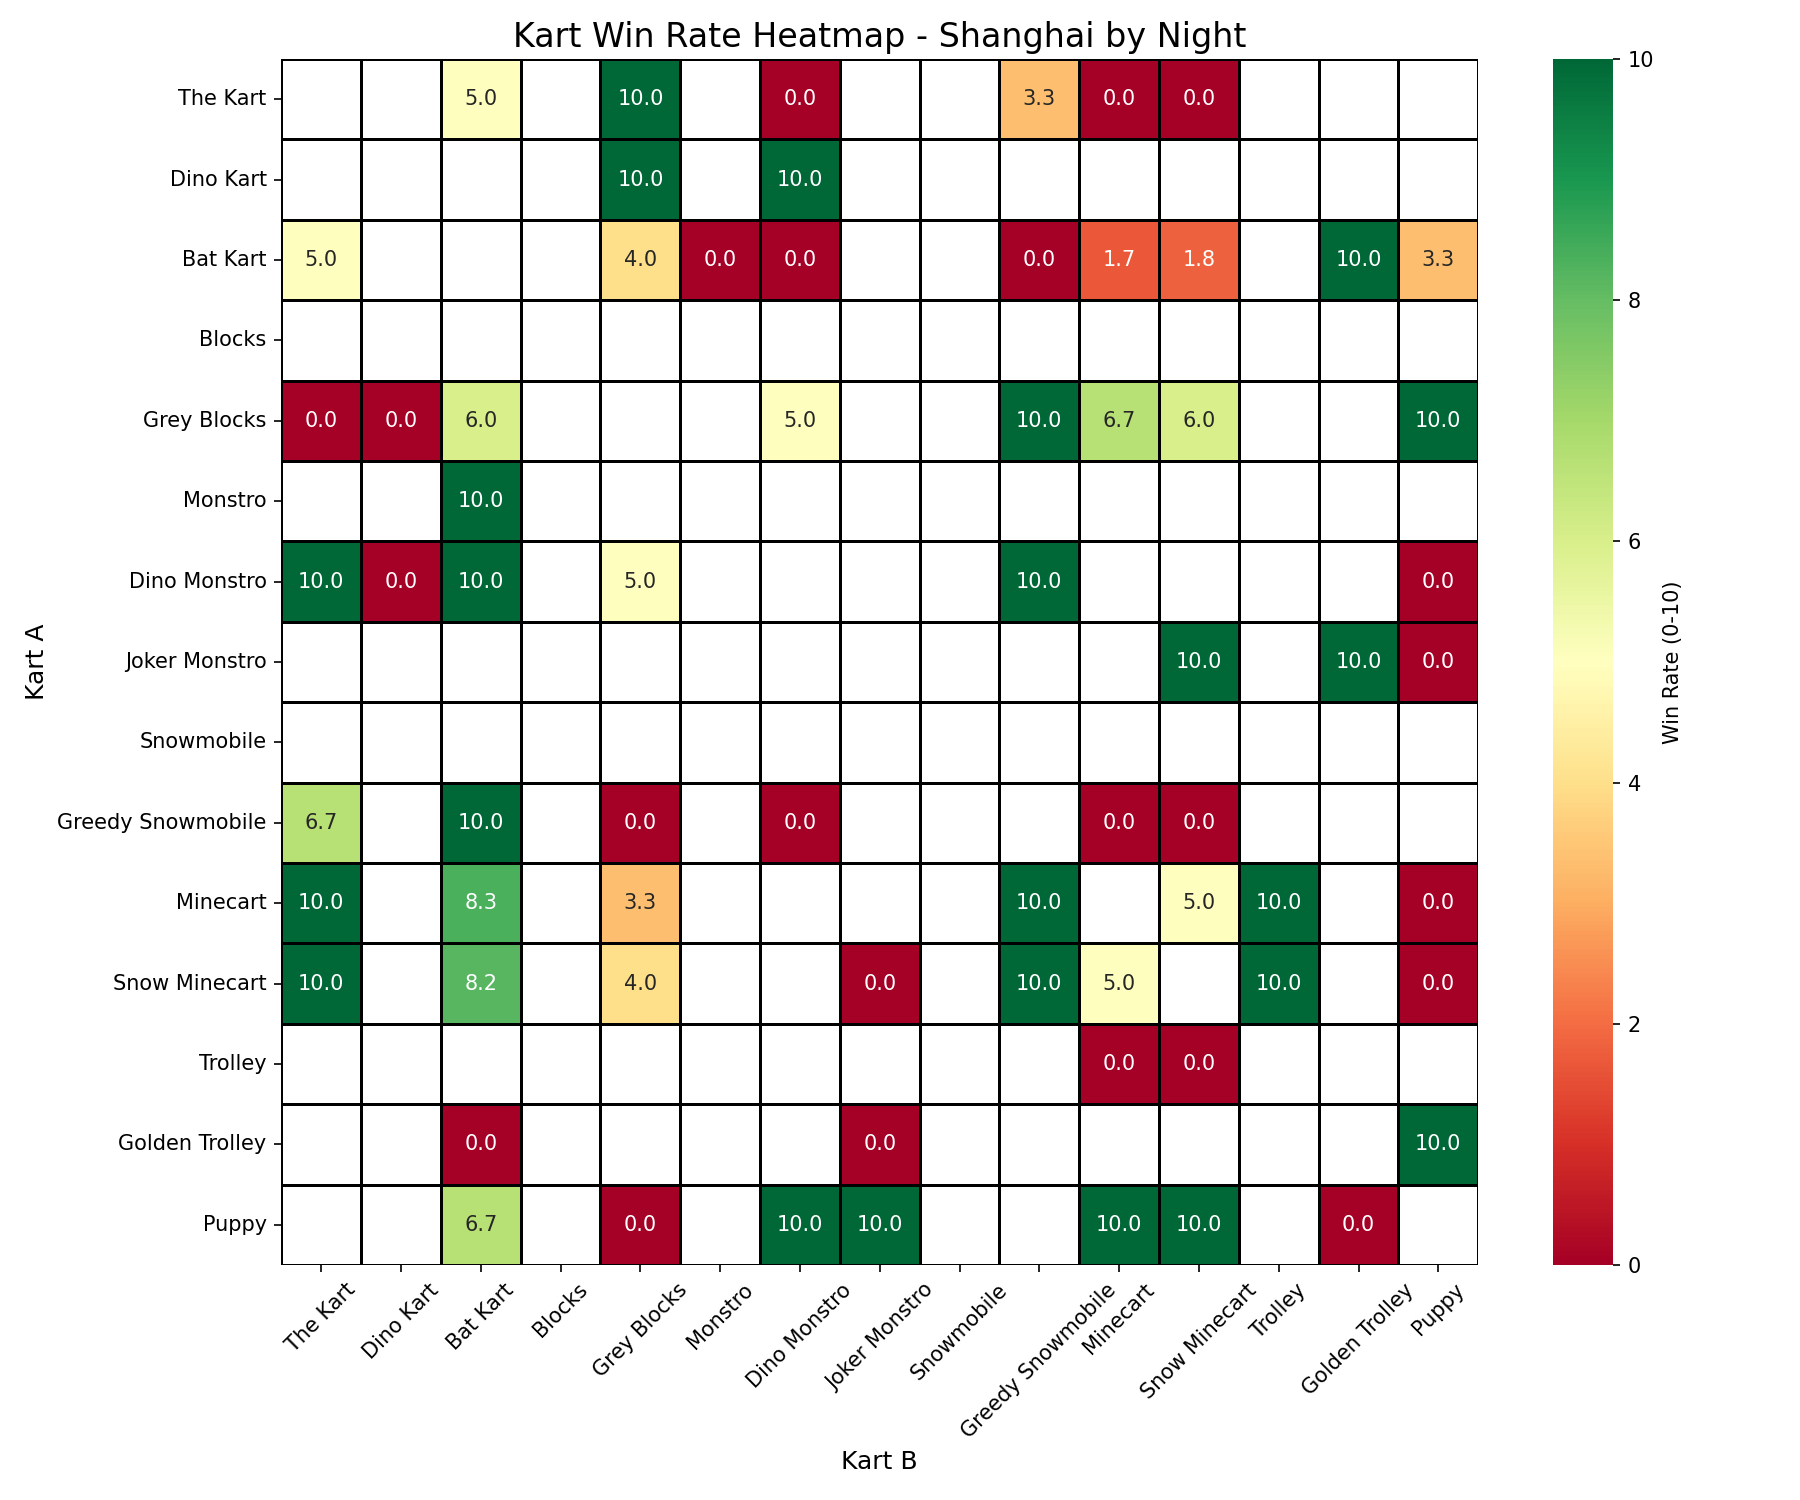
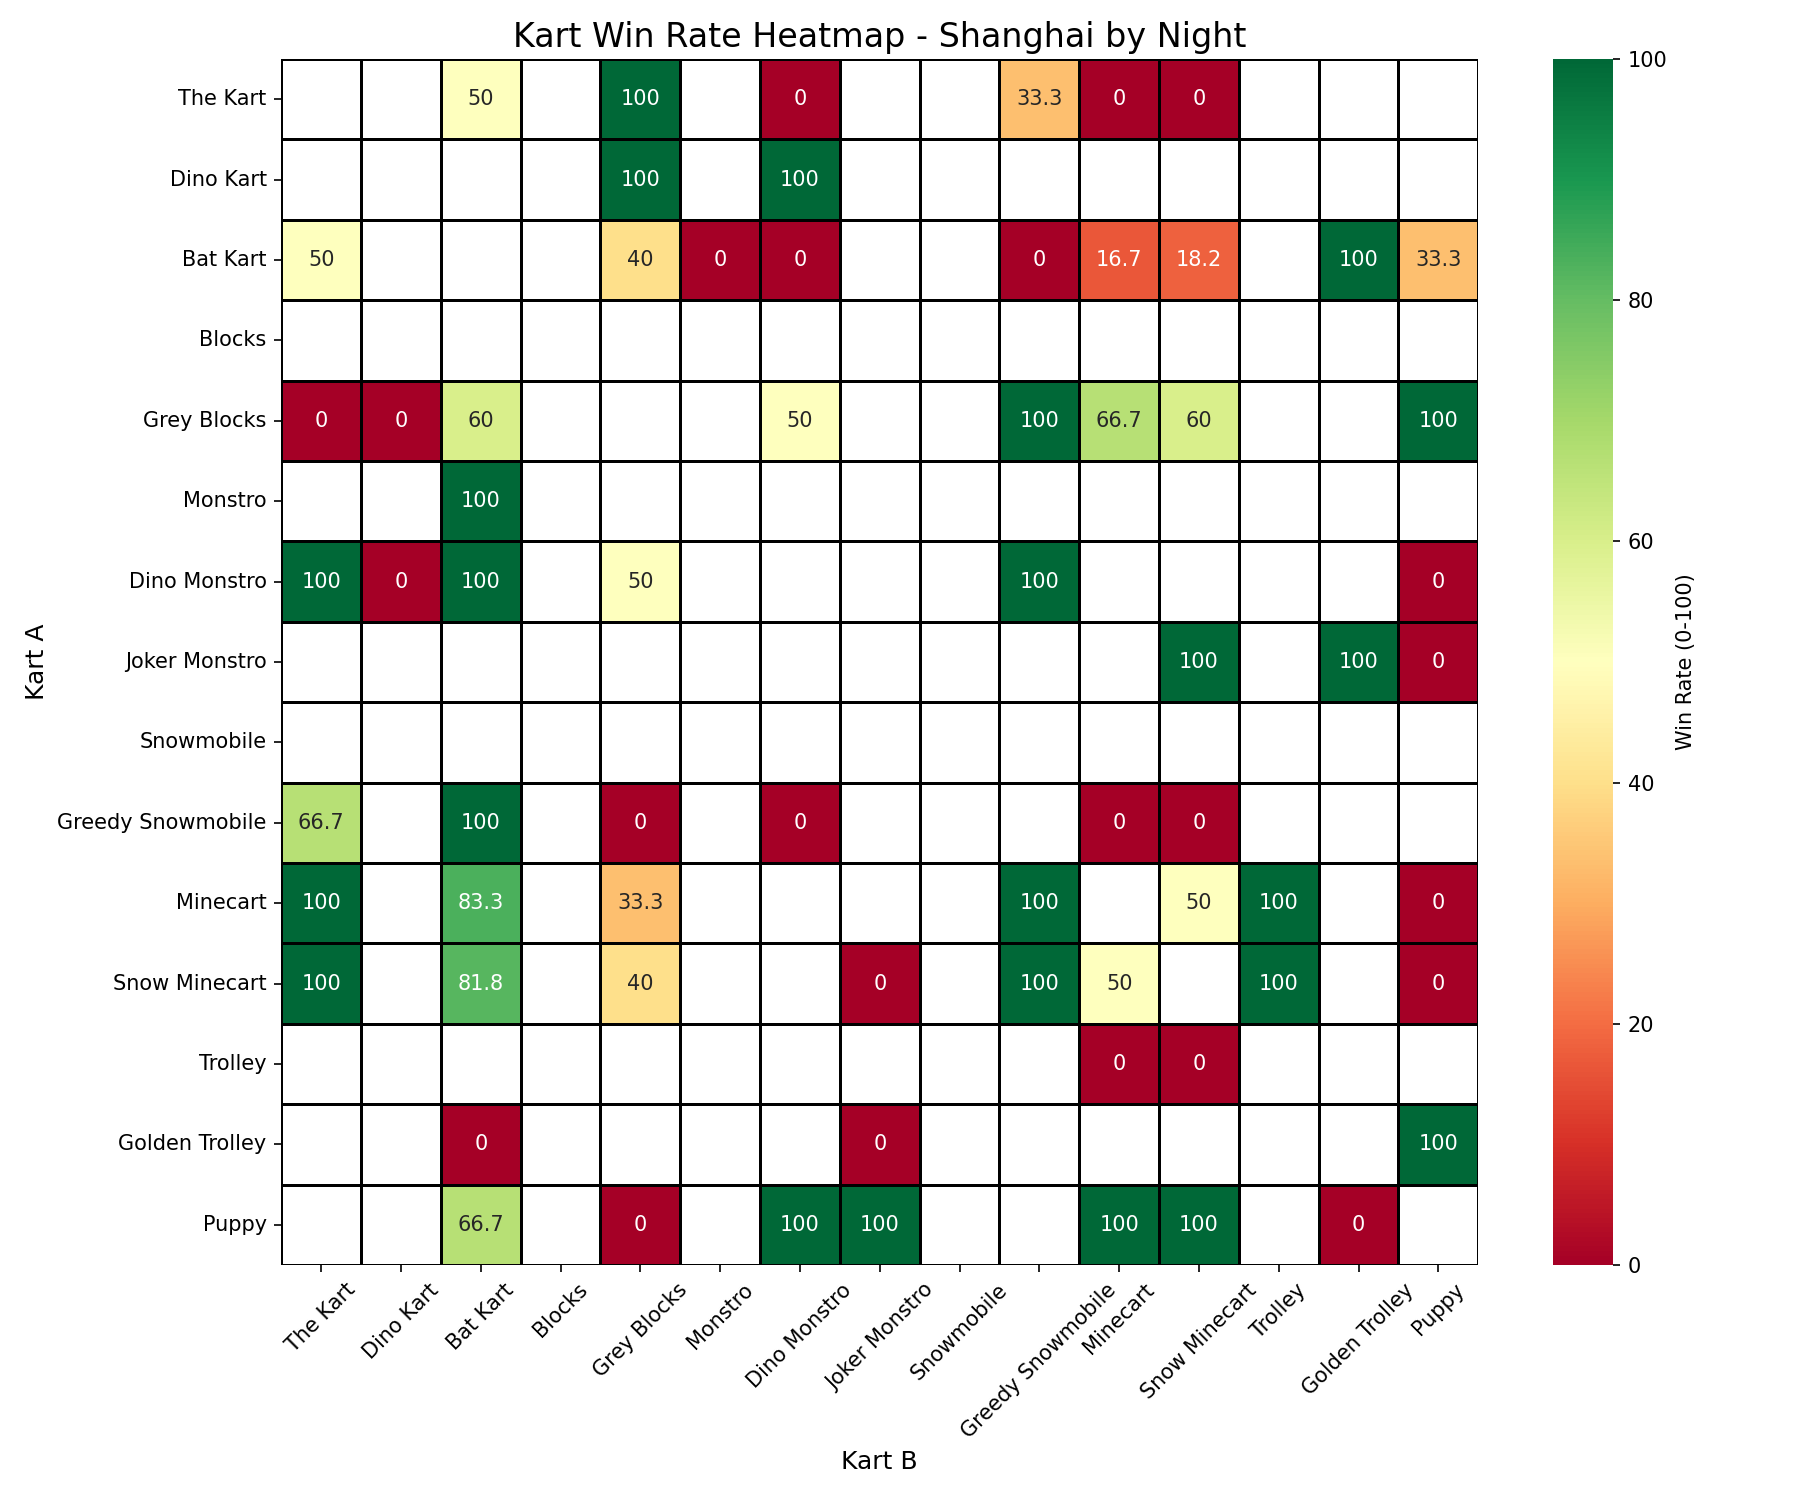
finished building heatmap, removed placement violin plots from graphs folders, and commented out placement violin plot function in kart_analysis.py

diff --git a/src/calculations/kart_analysis.py b/src/calculations/kart_analysis.py
@@ -119,97 +119,6 @@ def generate_kart_racetime_box_plots():
         plt.close()
         print(f"Saved kart performance box plot for {map_name} at {graph_path}")
 
-def generate_kart_placement_plots():
-    """Generate box plots of kart placements for each map."""
-    # Load necessary data
-    results = load_csv(results_file)
-    maps_data = load_csv(maps_file)
-    karts_data = load_csv(karts_file)
-    
-    # Extract kart and map information
-    karts_list = karts_data["Kart Name"].tolist()
-    maps_list = maps_data["Map Name"].tolist()
-    
-    # Directory for saving graphs
-    kart_graphs_dir = os.path.join(base_dir, "output/kart_graphs")
-    os.makedirs(kart_graphs_dir, exist_ok=True)
-
-    # Iterate through each map
-    for map_name in maps_list:
-        # Filter results for the current map
-        map_results = results[results["Map Name"] == map_name]
-        
-        # Initialize a dictionary to hold kart placements
-        kart_placements = {kart: [] for kart in karts_list}
-
-        # Parse placements for each kart
-        for _, race in map_results.iterrows():
-            for i in range(3, len(race), 3):  # Iterate over Placement, Kart, Racetime columns
-                kart_col = race.index[i + 1]  # Kart column
-                placement_col = race.index[i]  # Placement column
-                
-                kart_name = race[kart_col]
-                placement = race[placement_col]
-
-                # Skip if the player didn't race or if the kart isn't in the kart list
-                if kart_name == "DNR" or placement == "DNR" or kart_name not in karts_list:
-                    continue
-
-                try:
-                    # Convert placement to integer and store it
-                    kart_placements[kart_name].append(int(placement))
-                except Exception as e:
-                    print(f"Error parsing placement for kart {kart_name} in race: {race}")
-                    continue
-
-        # Prepare data for plotting
-        plot_data = []
-        kart_counts = {}  # To store race counts for each kart
-        for kart, placements in kart_placements.items():
-            kart_counts[kart] = len(placements)
-            for placement in placements:
-                plot_data.append({"Kart": kart, "Placement": placement})
-        
-        # If no data exists for this map, skip plotting
-        if not plot_data:
-            print(f"No placement data available for map: {map_name}, skipping plot.")
-            continue
-        
-        # Convert plot data to DataFrame
-        plot_df = pd.DataFrame(plot_data)
-
-        # Compute median placements for each kart and sort by median
-        kart_order = (
-            plot_df.groupby("Kart")["Placement"]
-            .median()
-            .sort_values()
-            .index
-            .map(lambda kart: f"{kart} ({kart_counts[kart]})")
-            .tolist()
-        )
-        plot_df["Kart"] = plot_df["Kart"].map(lambda kart: f"{kart} ({kart_counts[kart]})")
-
-        # Create a box plot with the sorted kart order
-        plt.figure(figsize=(12, 8))
-        sns.violinplot(
-            data=plot_df, 
-            x="Placement", 
-            y="Kart", 
-            orient="h", 
-            order=kart_order,
-            inner=None
-        )
-        plt.title(f"Placements on {map_name}", fontsize=16)
-        plt.xlabel("Placement (1 = Best, 8 = Worst)", fontsize=14)
-        plt.ylabel("Karts", fontsize=14)
-        plt.grid(axis='x', linestyle='--', alpha=0.7)
-
-        # Save the plot to the kart_graphs directory
-        graph_path = os.path.join(kart_graphs_dir, f"{map_name}_kart_placements.png")
-        plt.tight_layout()
-        plt.savefig(graph_path, dpi=150)
-        plt.close()
-        print(f"Saved kart placement box plot for {map_name} at {graph_path}")
 
 def generate_kart_pairwise_comparisons():
     """Generate pairwise kart performance comparisons for each map and save as JSON."""
@@ -302,21 +211,21 @@ def generate_kart_win_rate_heatmaps():
                     wins_a = kart_wins[kart_a][kart_b]
                     wins_b = kart_wins[kart_b][kart_a]
                     total_races = wins_a + wins_b
-                    win_rate = (wins_a / total_races) * 10 if total_races > 0 else np.nan
+                    win_rate = (wins_a / total_races) * 100 if total_races > 0 else np.nan
                     row.append(win_rate)
             win_rate_matrix.append(row)
 
         # Convert to DataFrame for heatmap
         win_rate_df = pd.DataFrame(win_rate_matrix, index=karts, columns=karts)
-
+        
         # Plot the heatmap
         plt.figure(figsize=(12, 10))
         sns.heatmap(
             win_rate_df,
-            annot=True,
-            fmt=".1f",
+            annot=win_rate_df.map(lambda value: "" if pd.isna(value) else f"{value:.3g}"),  # Apply custom formatting
+            fmt="",  # Use blank fmt because annotations are preformatted
             cmap="RdYlGn",
-            cbar_kws={"label": "Win Rate (0-10)"},
+            cbar_kws={"label": "Win Rate (0-100)"},
             linewidths=0.5,
             linecolor="black",
             mask=win_rate_df.isnull(),  # Mask NaN values
@@ -335,12 +244,107 @@ def generate_kart_win_rate_heatmaps():
         print(f"Saved kart win rate heatmap for {map_name} at {heatmap_path}")
 
 
+
 def main():
     generate_kart_racetime_box_plots()
-    #generate_kart_placement_plots()
     generate_kart_pairwise_comparisons()
     generate_kart_win_rate_heatmaps()
 
 
 if __name__ == "__main__":
     main()
+
+
+#Generate violin of kart placements for each map. Function no longer used
+"""
+def generate_kart_placement_plots():
+    # Load necessary data
+    results = load_csv(results_file)
+    maps_data = load_csv(maps_file)
+    karts_data = load_csv(karts_file)
+    
+    # Extract kart and map information
+    karts_list = karts_data["Kart Name"].tolist()
+    maps_list = maps_data["Map Name"].tolist()
+    
+    # Directory for saving graphs
+    kart_graphs_dir = os.path.join(base_dir, "output/kart_graphs")
+    os.makedirs(kart_graphs_dir, exist_ok=True)
+
+    # Iterate through each map
+    for map_name in maps_list:
+        # Filter results for the current map
+        map_results = results[results["Map Name"] == map_name]
+        
+        # Initialize a dictionary to hold kart placements
+        kart_placements = {kart: [] for kart in karts_list}
+
+        # Parse placements for each kart
+        for _, race in map_results.iterrows():
+            for i in range(3, len(race), 3):  # Iterate over Placement, Kart, Racetime columns
+                kart_col = race.index[i + 1]  # Kart column
+                placement_col = race.index[i]  # Placement column
+                
+                kart_name = race[kart_col]
+                placement = race[placement_col]
+
+                # Skip if the player didn't race or if the kart isn't in the kart list
+                if kart_name == "DNR" or placement == "DNR" or kart_name not in karts_list:
+                    continue
+
+                try:
+                    # Convert placement to integer and store it
+                    kart_placements[kart_name].append(int(placement))
+                except Exception as e:
+                    print(f"Error parsing placement for kart {kart_name} in race: {race}")
+                    continue
+
+        # Prepare data for plotting
+        plot_data = []
+        kart_counts = {}  # To store race counts for each kart
+        for kart, placements in kart_placements.items():
+            kart_counts[kart] = len(placements)
+            for placement in placements:
+                plot_data.append({"Kart": kart, "Placement": placement})
+        
+        # If no data exists for this map, skip plotting
+        if not plot_data:
+            print(f"No placement data available for map: {map_name}, skipping plot.")
+            continue
+        
+        # Convert plot data to DataFrame
+        plot_df = pd.DataFrame(plot_data)
+
+        # Compute median placements for each kart and sort by median
+        kart_order = (
+            plot_df.groupby("Kart")["Placement"]
+            .median()
+            .sort_values()
+            .index
+            .map(lambda kart: f"{kart} ({kart_counts[kart]})")
+            .tolist()
+        )
+        plot_df["Kart"] = plot_df["Kart"].map(lambda kart: f"{kart} ({kart_counts[kart]})")
+
+        # Create a box plot with the sorted kart order
+        plt.figure(figsize=(12, 8))
+        sns.violinplot(
+            data=plot_df, 
+            x="Placement", 
+            y="Kart", 
+            orient="h", 
+            order=kart_order,
+            inner=None
+        )
+        plt.title(f"Placements on {map_name}", fontsize=16)
+        plt.xlabel("Placement (1 = Best, 8 = Worst)", fontsize=14)
+        plt.ylabel("Karts", fontsize=14)
+        plt.grid(axis='x', linestyle='--', alpha=0.7)
+
+        # Save the plot to the kart_graphs directory
+        graph_path = os.path.join(kart_graphs_dir, f"{map_name}_kart_placements.png")
+        plt.tight_layout()
+        plt.savefig(graph_path, dpi=150)
+        plt.close()
+        print(f"Saved kart placement box plot for {map_name} at {graph_path}")
+"""
